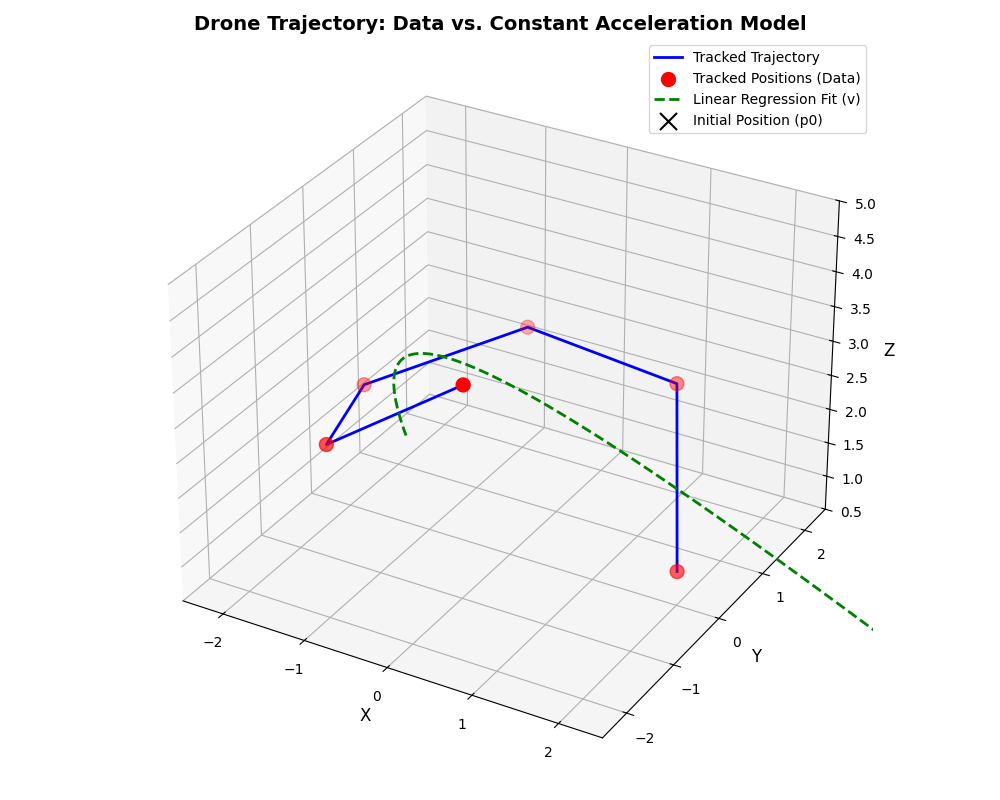
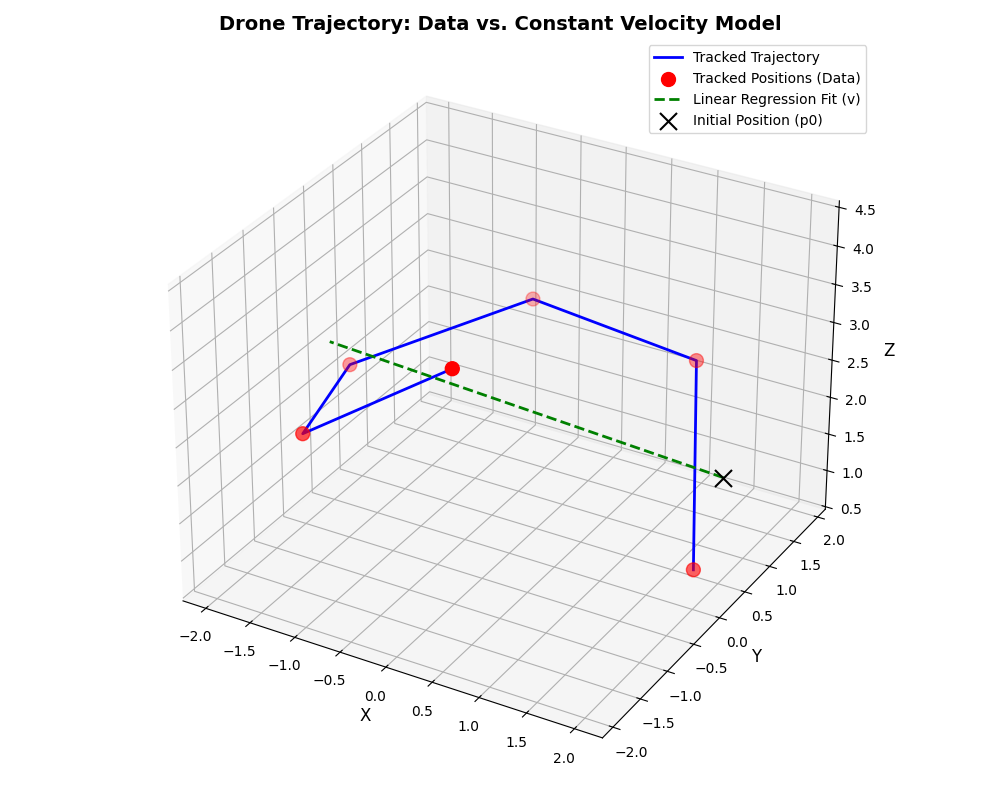
rebase & rework

diff --git a/run_const_acceleration.py b/run_const_acceleration.py
@@ -31,36 +31,10 @@ def gradient_descent(timesteps, positions, learn_rate, max_iter, tol=1e-6):
 
     return p0, v, a
 
-
-# Timesteps
-timesteps = np.array([1, 2, 3, 4, 5, 6])
-
-# 3D points
-p_x = np.array([2.00,  1.08, -0.83, -1.97, -1.31,  0.57])
-p_y = np.array([0.00,  1.68,  1.82,  0.28, -1.51, -1.91])
-p_z = np.array([1.00,  2.38,  2.49,  2.15,  2.59,  4.32])
-
-# To find v_x, v_y, v_z
-p0_x, v_x, a_x= gradient_descent(timesteps, p_x, 0.0001, 1000000)
-print(f"For Axis X: p0={p0_x}, v={v_x}, a={a_x}")
-p0_y, v_y, a_y = gradient_descent(timesteps, p_y, 0.0001, 1000000)
-print(f"For Axis Y: p0={p0_y}, v={v_y}, a={a_y}")
-p0_z, v_z, a_z = gradient_descent(timesteps, p_z, 0.0001, 1000000)
-print(f"For Axis Z: p0={p0_z}, v={v_z}, a={a_z}")
-
-
 def calc_residual_error(timesteps, p_i, p0, v, a):
     # calculate the error for all 6 timesteps (np.array)
     error = (p_i - (p0 + v * timesteps + a * timesteps**2))**2
     return error
-
-error_xyz = (calc_residual_error(timesteps, p_x, p0_x, v_x, a_x) +
-               calc_residual_error(timesteps, p_y, p0_y, v_y, a_y) +
-               calc_residual_error(timesteps, p_z, p0_z, v_z, a_z))
-
-# now sum up all the 6 residual errors
-residual_error = np.sum(error_xyz)
-print(residual_error)
 
 
 def draw(p0_x, p0_y, p0_z, v_x, v_y, v_z, a_x, a_y, a_z):
@@ -99,10 +73,6 @@ def draw(p0_x, p0_y, p0_z, v_x, v_y, v_z, a_x, a_y, a_z):
     plt.savefig('drone_trajectory_estimation_acceleration.png')
 
 
-# now using our results to plot the estimated v and p0
-draw(p0_x, p0_y, p0_z, v_x, v_y, v_z, a_x, a_y, a_z)
-
-
 def predict_new_pos_and_draw(t_pred, p0_x, p0_y, p0_z, v_x, v_y, v_z, a_x, a_y, a_z):
 
         t_line = np.linspace(0, t_pred, 100)
@@ -119,7 +89,7 @@ def predict_new_pos_and_draw(t_pred, p0_x, p0_y, p0_z, v_x, v_y, v_z, a_x, a_y, 
 
         fig = plt.figure(figsize=(10, 8))
         ax = fig.add_subplot(111, projection='3d')
-        ax.set_xlim([-2.5, 2.5])
+        ax.set_xlim([-5, 5])
         ax.set_ylim([-2.5, 2.5])
         ax.set_zlim([0.5, 5.0])
 
@@ -136,6 +106,7 @@ def predict_new_pos_and_draw(t_pred, p0_x, p0_y, p0_z, v_x, v_y, v_z, a_x, a_y, 
 
         ax.scatter(x_7, y_7, z_7, c='gold', marker='*', s=200, label=f'prediction t={t_pred}')
 
+
         # Labels and title
         ax.set_xlabel('X', fontsize=12)
         ax.set_ylabel('Y', fontsize=12)
@@ -146,4 +117,40 @@ def predict_new_pos_and_draw(t_pred, p0_x, p0_y, p0_z, v_x, v_y, v_z, a_x, a_y, 
         plt.tight_layout()
         plt.savefig('drone_trajectory_predict_t7.png')
 
-predict_new_pos_and_draw(7, p0_x, p0_y, p0_z, v_x, v_y, v_z, a_x, a_y, a_z)
+        print(x_7, y_7, z_7)
+
+
+
+def main():
+    # Timesteps
+    timesteps = np.array([1, 2, 3, 4, 5, 6])
+
+    # 3D points
+    p_x = np.array([2.00, 1.08, -0.83, -1.97, -1.31, 0.57])
+    p_y = np.array([0.00, 1.68, 1.82, 0.28, -1.51, -1.91])
+    p_z = np.array([1.00, 2.38, 2.49, 2.15, 2.59, 4.32])
+
+    # To find v_x, v_y, v_z
+    p0_x, v_x, a_x = gradient_descent(timesteps, p_x, 0.00001, 1000000)
+    print(f"For Axis X: p0={p0_x}, v={v_x}, a={a_x}")
+    p0_y, v_y, a_y = gradient_descent(timesteps, p_y, 0.00001, 1000000)
+    print(f"For Axis Y: p0={p0_y}, v={v_y}, a={a_y}")
+    p0_z, v_z, a_z = gradient_descent(timesteps, p_z, 0.00001, 1000000)
+    print(f"For Axis Z: p0={p0_z}, v={v_z}, a={a_z}")
+
+    error_xyz = (calc_residual_error(timesteps, p_x, p0_x, v_x, a_x) +
+               calc_residual_error(timesteps, p_y, p0_y, v_y, a_y) +
+               calc_residual_error(timesteps, p_z, p0_z, v_z, a_z))
+
+    # now using our results to plot the estimated v and p0
+    draw(p0_x, p0_y, p0_z, v_x, v_y, v_z, a_x, a_y, a_z)
+
+    predict_new_pos_and_draw(7, p0_x, p0_y, p0_z, v_x, v_y, v_z, a_x, a_y, a_z)
+
+    # now sum up all the 6 residual errors
+    residual_error = np.sum(error_xyz)
+    print(residual_error)
+
+
+if __name__ == "__main__":
+    main()

diff --git a/run_const_velocity.py b/run_const_velocity.py
@@ -33,37 +33,6 @@ def gradient_descent(timesteps, positions, learn_rate, max_iter, tol=1e-6):
     return p0, v
 
 
-# Timesteps
-timesteps = np.array([1, 2, 3, 4, 5, 6])
-
-# 3D points
-p_x = np.array([2.00,  1.08, -0.83, -1.97, -1.31,  0.57])
-p_y = np.array([0.00,  1.68,  1.82,  0.28, -1.51, -1.91])
-p_z = np.array([1.00,  2.38,  2.49,  2.15,  2.59,  4.32])
-
-# To find v_x, v_y, v_z
-p0_x, v_x = gradient_descent(timesteps, p_x, 0.0001, 10000)
-print(f"For Axis X: p0={p0_x}, v={v_x}")
-p0_y, v_y = gradient_descent(timesteps, p_y, 0.0001, 10000)
-print(f"For Axis Y: p0={p0_y}, v={v_y}")
-p0_z, v_z = gradient_descent(timesteps, p_z, 0.0001, 10000)
-print(f"For Axis Z: p0={p0_z}, v={v_z}")
-
-
-def calc_residual_error(timesteps, p_i, p0, v):
-    # calculate the error for all 6 timesteps (np.array)
-    error = (p_i - (p0 + v * timesteps))**2
-    return error
-
-error_xyz = (calc_residual_error(timesteps, p_x, p0_x, v_x) +
-               calc_residual_error(timesteps, p_y, p0_y, v_y) +
-               calc_residual_error(timesteps, p_z, p0_z, v_z))
-
-# now sum up all the 6 residual errors
-residual_error = np.sum(error_xyz)
-print(residual_error)
-
-
 def draw(p0_x, p0_y, p0_z, v_x, v_y, v_z):
     # Create a range of time for the smooth line (from start p0 at t=0 to t=6)
     t_line = np.linspace(0, 6, 100)
@@ -100,5 +69,42 @@ def draw(p0_x, p0_y, p0_z, v_x, v_y, v_z):
     plt.tight_layout()
     plt.savefig('drone_trajectory_estimation_acceleration.png')
 
-# now using our results to plot the estimated v and p0
-draw(p0_x, p0_y, p0_z, v_x, v_y, v_z)
+
+def calc_residual_error(timesteps, p_i, p0, v):
+    # calculate the error for all 6 timesteps (np.array)
+    error = (p_i - (p0 + v * timesteps)) ** 2
+    return error
+
+
+
+def main():
+    # Timesteps
+    timesteps = np.array([1, 2, 3, 4, 5, 6])
+
+    # 3D points
+    p_x = np.array([2.00, 1.08, -0.83, -1.97, -1.31, 0.57])
+    p_y = np.array([0.00, 1.68, 1.82, 0.28, -1.51, -1.91])
+    p_z = np.array([1.00, 2.38, 2.49, 2.15, 2.59, 4.32])
+
+    # To find v_x, v_y, v_z
+    p0_x, v_x = gradient_descent(timesteps, p_x, 0.0001, 10000)
+    print(f"For Axis X: p0={p0_x}, v={v_x}")
+    p0_y, v_y = gradient_descent(timesteps, p_y, 0.0001, 10000)
+    print(f"For Axis Y: p0={p0_y}, v={v_y}")
+    p0_z, v_z = gradient_descent(timesteps, p_z, 0.0001, 10000)
+    print(f"For Axis Z: p0={p0_z}, v={v_z}")
+
+    error_xyz = (calc_residual_error(timesteps, p_x, p0_x, v_x) +
+                 calc_residual_error(timesteps, p_y, p0_y, v_y) +
+                 calc_residual_error(timesteps, p_z, p0_z, v_z))
+
+    # now sum up all the 6 residual errors
+    residual_error = np.sum(error_xyz)
+    print(residual_error)
+
+    # now using our results to plot the estimated v and p0
+    draw(p0_x, p0_y, p0_z, v_x, v_y, v_z)
+
+
+if __name__ == "__main__":
+    main()

diff --git a/main.py b/main.py
@@ -1,0 +1,12 @@
+import run_const_acceleration
+import run_const_velocity
+
+def run_all():
+    run_const_acceleration.main()
+    run_const_velocity.main()
+
+def main():
+    run_all()
+
+if __name__ == '__main__':
+    main()
